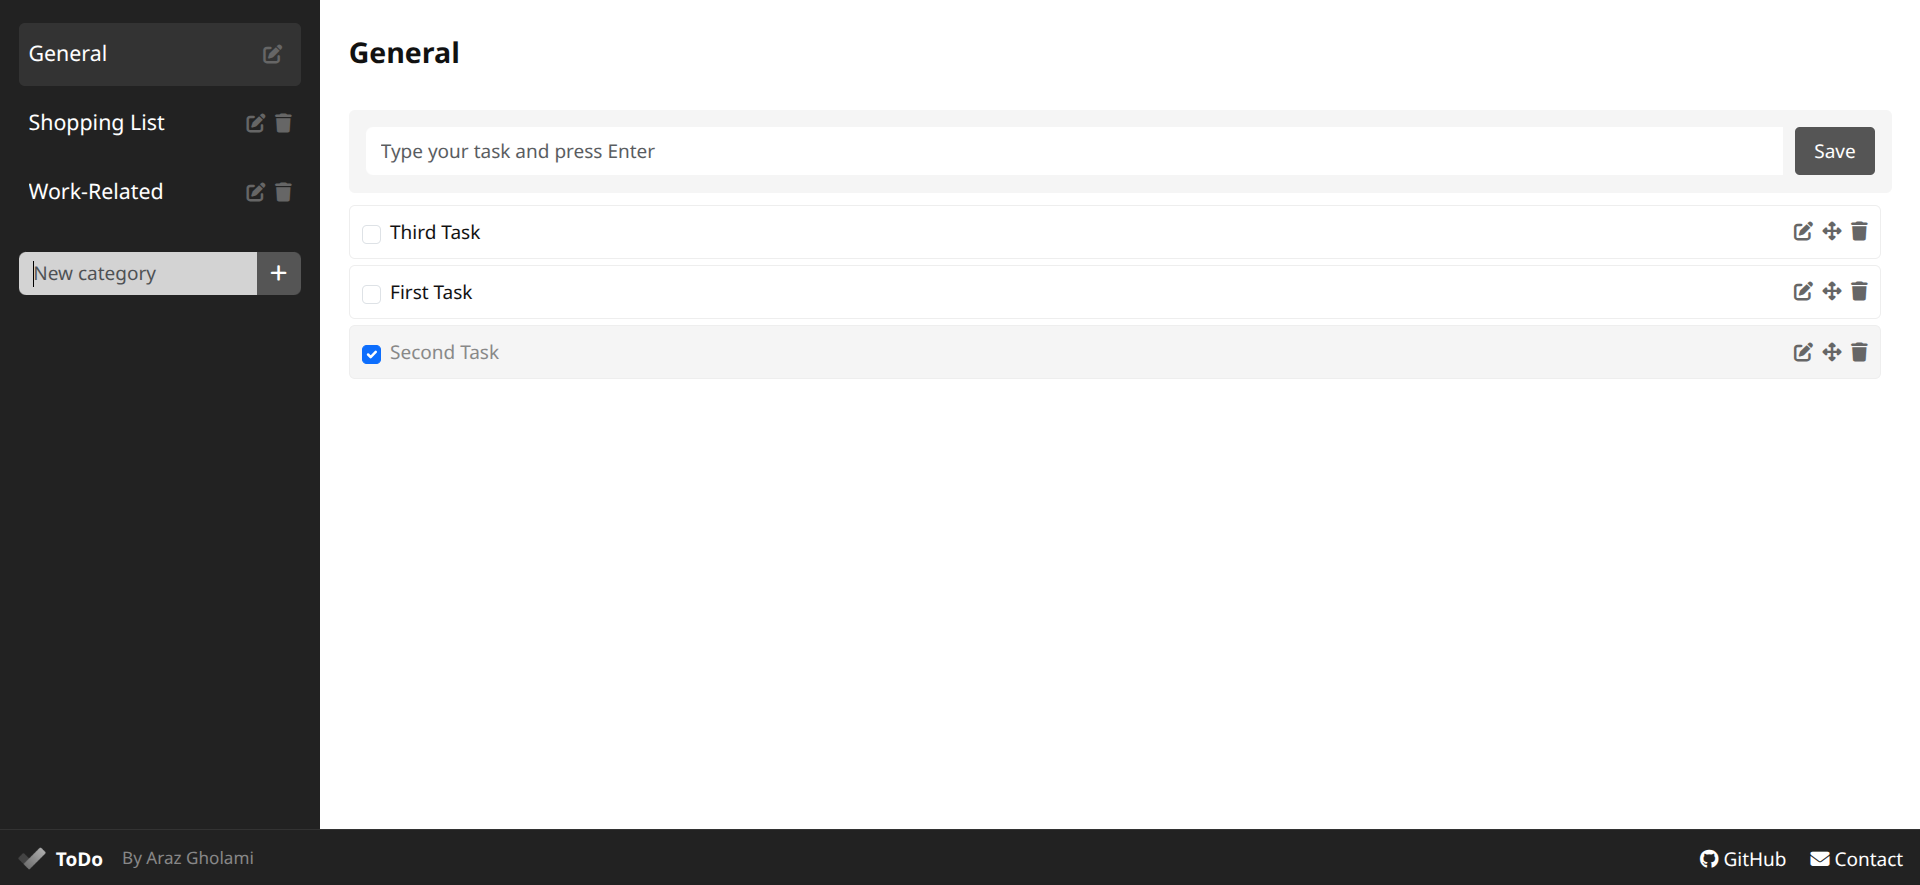
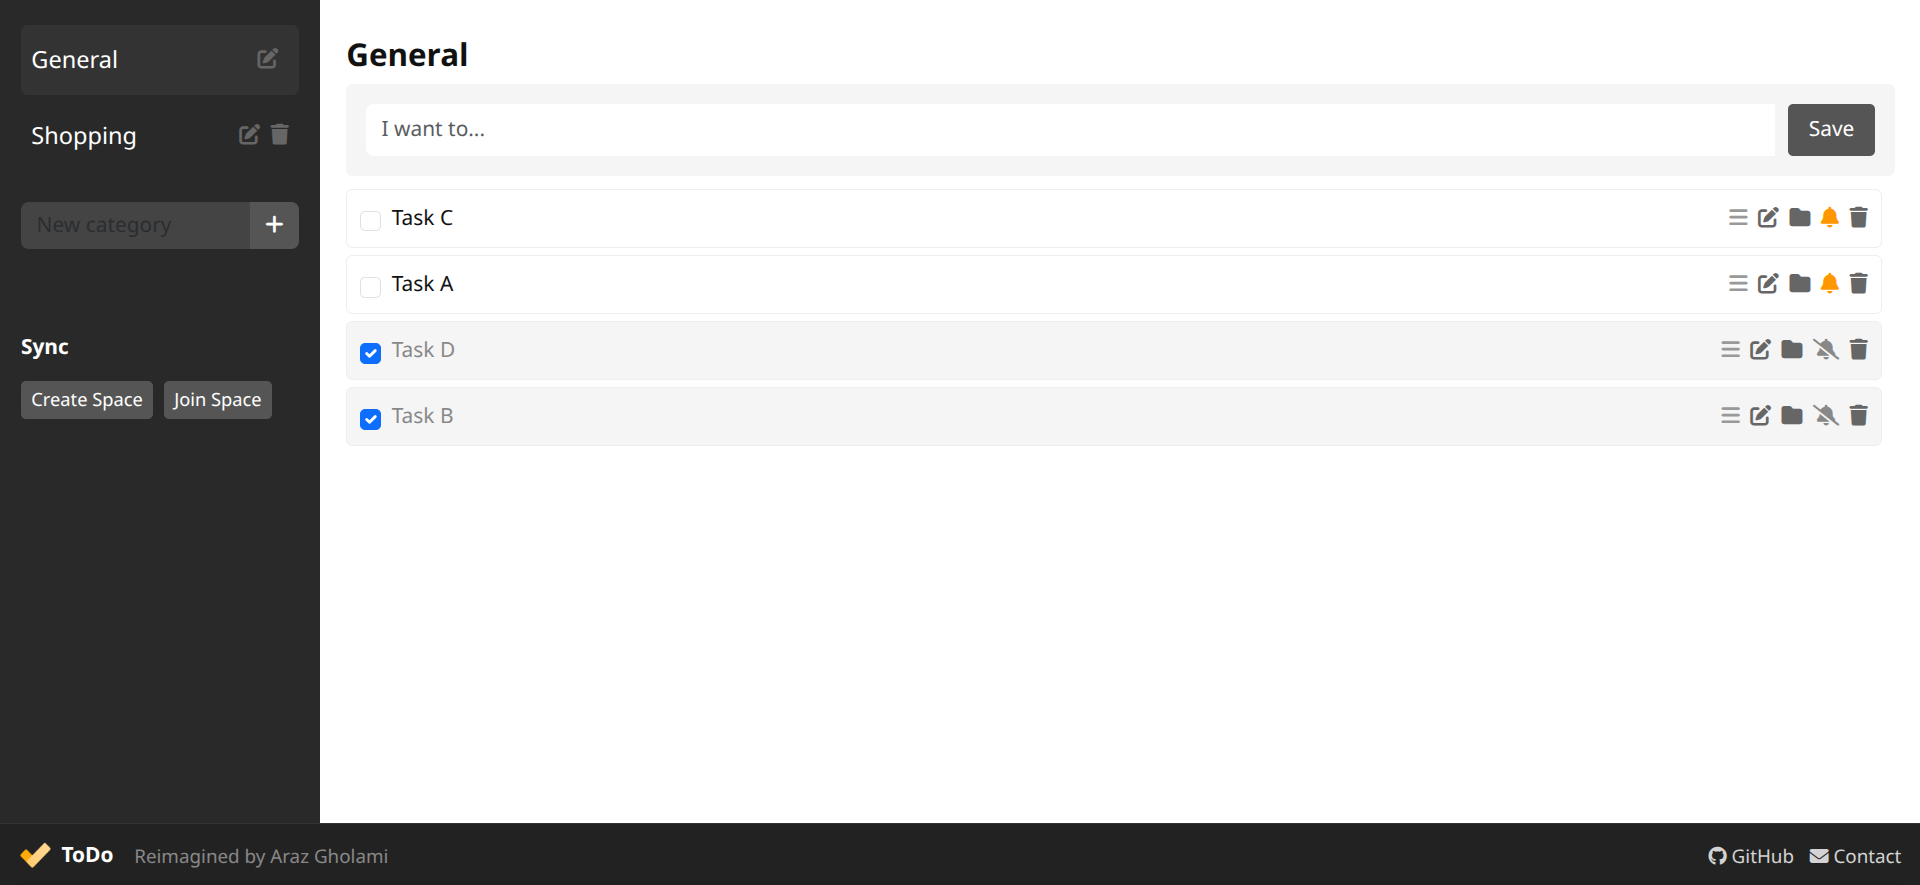
Update README and Screenshot

diff --git a/README.md b/README.md
@@ -1,6 +1,6 @@
 # ToDo
 
-A modern, feature-rich todo application built with HTML, CSS, and JavaScript. This application provides a clean and intuitive interface for managing your tasks efficiently.
+A server-less, modern, feature-rich todo application built with HTML, CSS, and JavaScript. This application provides a clean and intuitive interface for managing your tasks efficiently.
 <br>
 Live: [https://arazgholami.github.io/todo/](https://arazgholami.github.io/todo/)
 <br><br>
@@ -8,6 +8,7 @@ Live: [https://arazgholami.github.io/todo/](https://arazgholami.github.io/todo/)
 
 ## Features
 
+- **Serverless Sync and Reminder**: Sync your tasks between your devices and set reminder for each one of your task without a server
 - **Category Management**: Organize your tasks into custom categories with a default "General" category
 - **Task Organization**: 
   - Create, edit, and delete tasks
